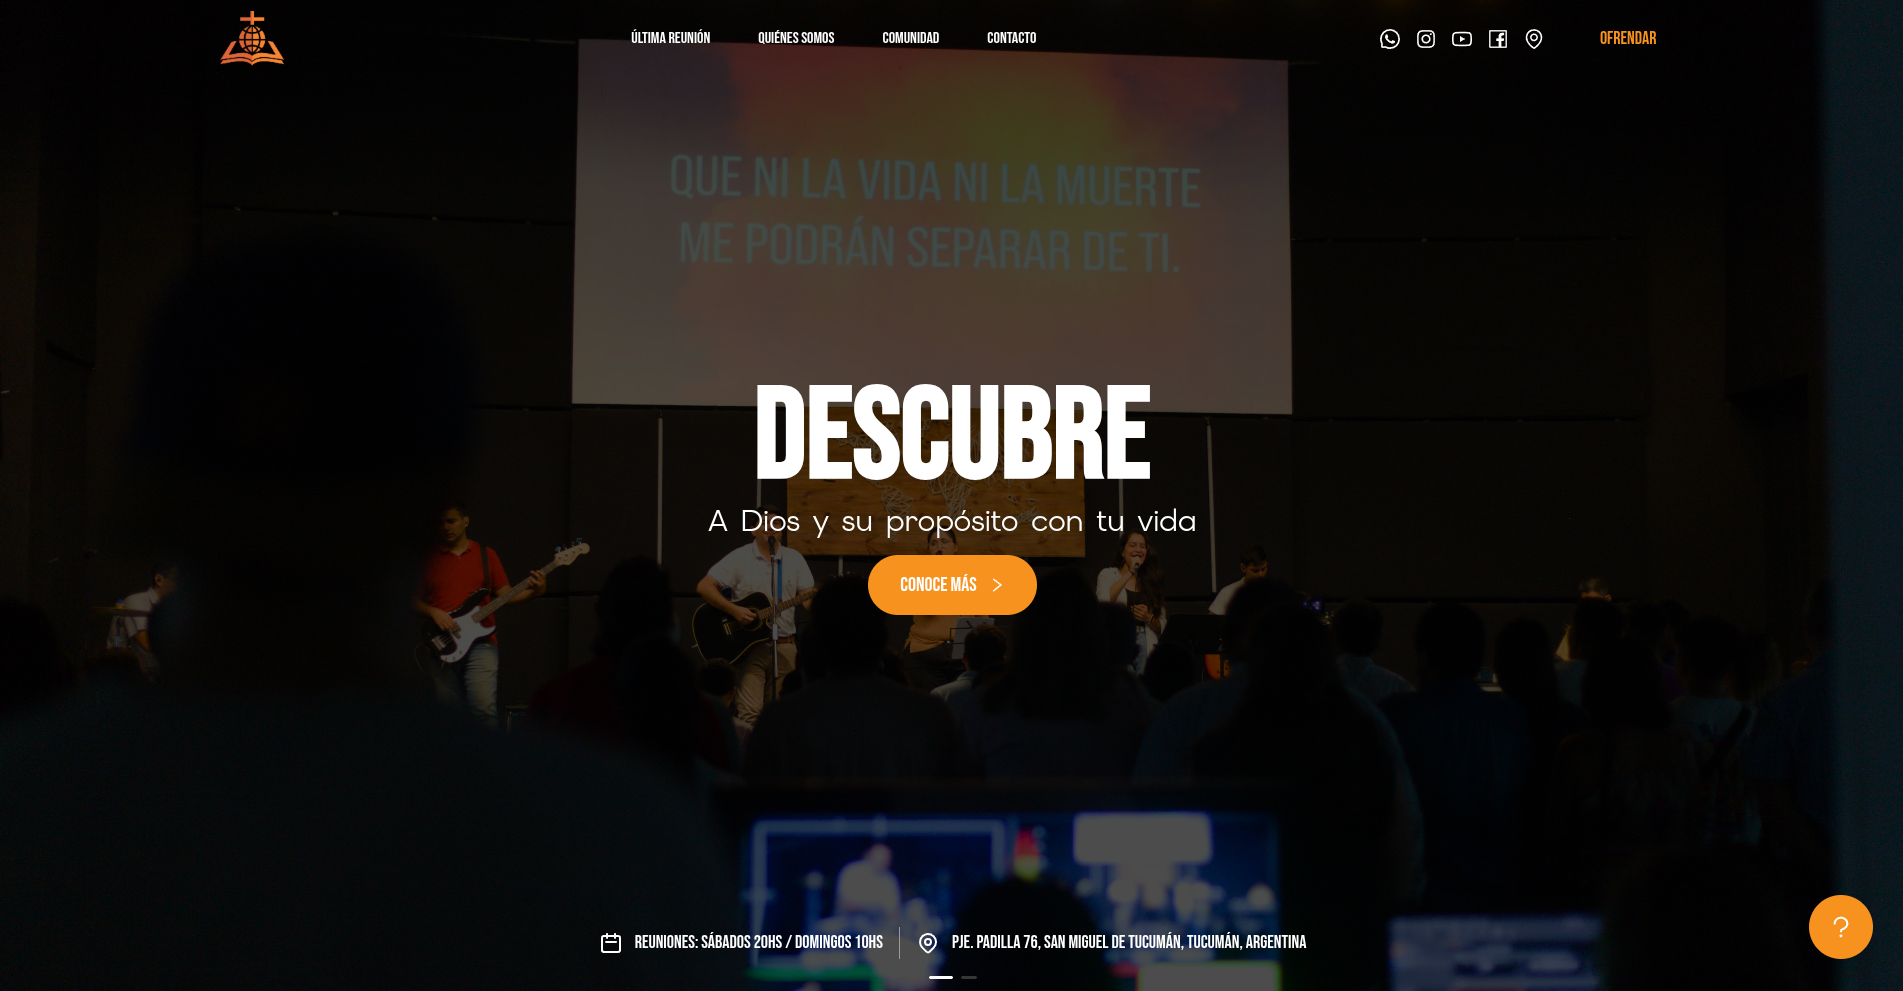
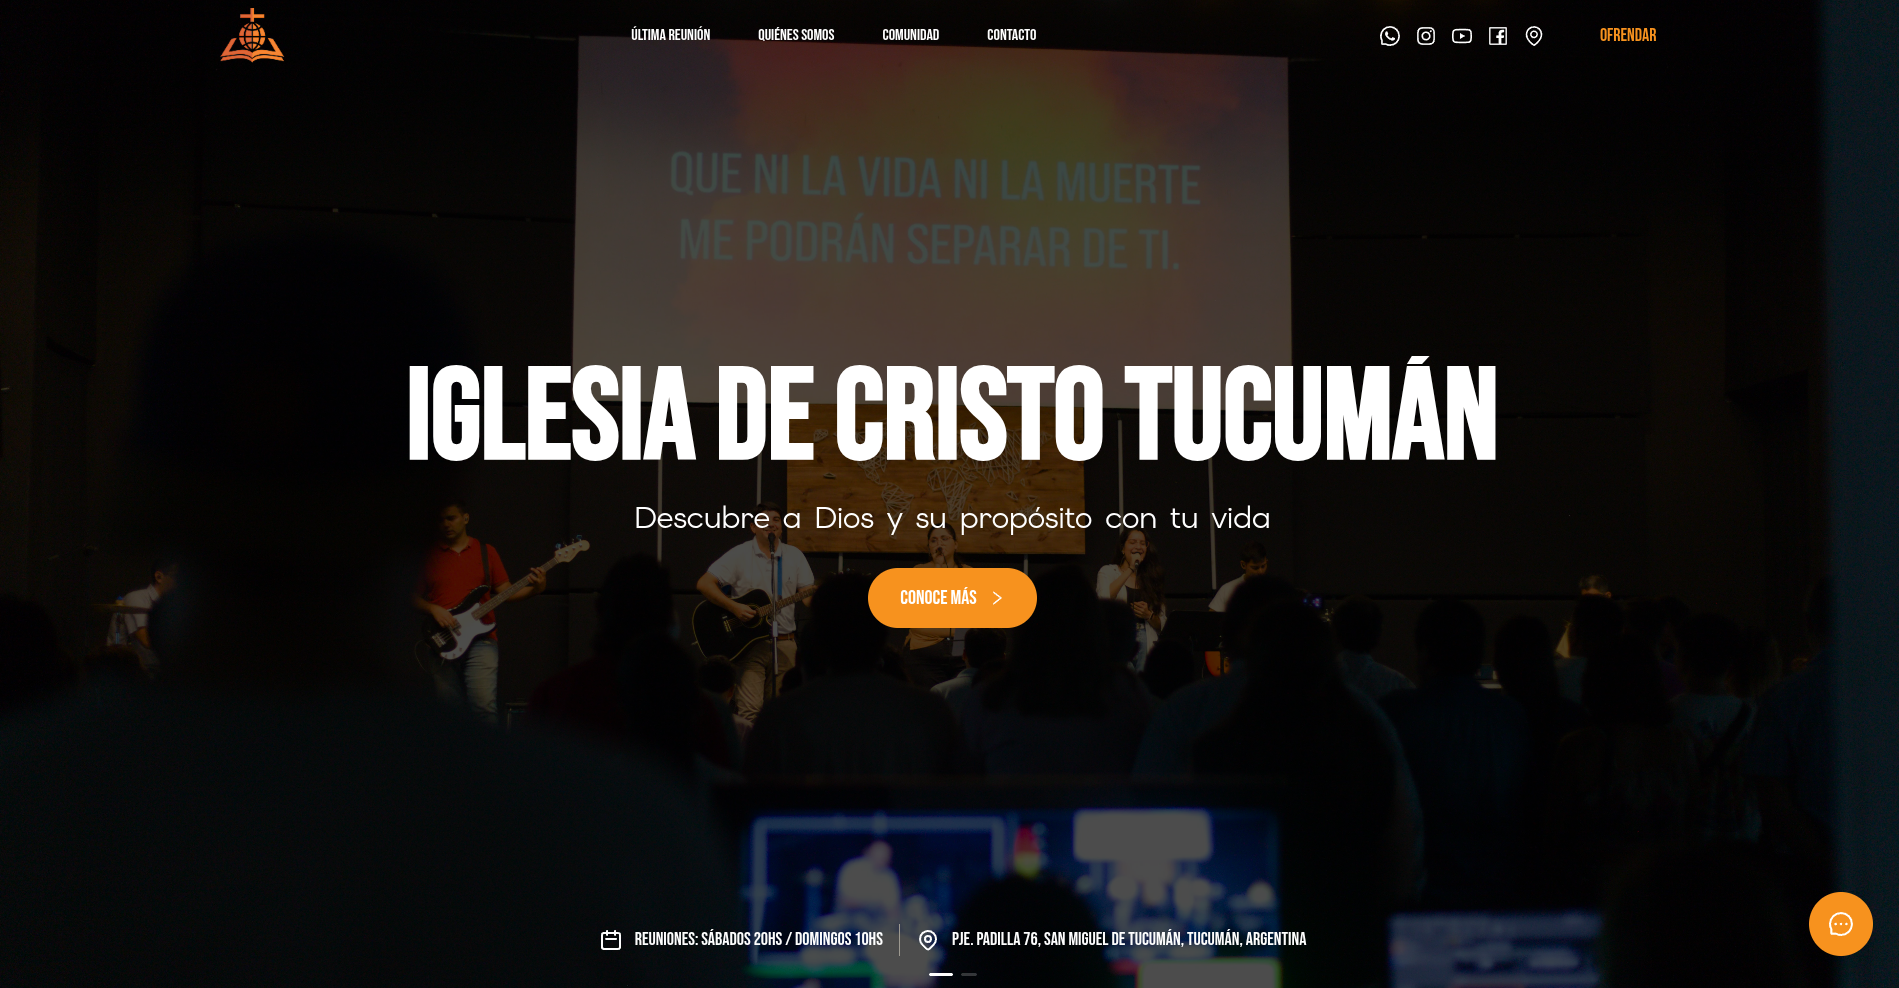
add

diff --git a/src/db/data.js b/src/db/data.js
@@ -117,27 +117,37 @@ const data = {
     {
       "name": "React",
       "icon": "FaReact",
-      "tooltip": "Librería para construir interfaces de usuario interactivas"
+      "tooltip": "Creación de interfaces dinámicas mediante componentes reutilizables"
     },
     {
       "name": "Next.js",
       "icon": "SiNextdotjs",
-      "tooltip": "Framework de React para aplicaciones web de producción"
+      "tooltip": "Aplicaciones de alto rendimiento con renderizado optimizado (SSR/SSG)"
+    },
+    {
+      "name": "Express.js",
+      "icon": "SiExpress",
+      "tooltip": "Desarrollo de APIs robustas y escalables del lado del servidor"
+    },
+    {
+      "name": "Git",
+      "icon": "FaGithub",
+      "tooltip": "Gestión eficiente de versiones y colaboración técnica en equipo"
     },
     {
       "name": "Diseño UX/UI",
       "icon": "MdDesignServices",
-      "tooltip": "Diseño de experiencia de usuario e interfaces intuitivas"
+      "tooltip": "Arquitectura de información y diseño de interfaces centradas en el usuario"
     },
     {
       "name": "Metodologías Ágiles",
       "icon": "MdSpeed",
-      "tooltip": "Enfoques iterativos para desarrollo de software eficiente"
+      "tooltip": "Gestión de proyectos con entregas iterativas y mejora continua"
     },
     {
       "name": "Docencia",
       "icon": "FaChalkboardTeacher",
-      "tooltip": "Experiencia en enseñanza y transferencia de conocimientos"
+      "tooltip": "Facilitación de aprendizaje y comunicación efectiva de conceptos técnicos"
     }
   ],
   "certifications": [

diff --git a/src/components/Skills.jsx b/src/components/Skills.jsx
@@ -1,13 +1,14 @@
 import React, { useMemo } from "react";
-import { Row, Col } from "antd";
+import { Row, Col, Tooltip } from "antd";
 import {
   FaHtml5,
   FaCss3Alt,
   FaJs,
   FaReact,
   FaChalkboardTeacher,
+  FaGithub
 } from "react-icons/fa";
-import { SiNextdotjs } from "react-icons/si";
+import { SiNextdotjs, SiExpress } from "react-icons/si";
 import { MdGroup, MdDesignServices, MdSpeed } from "react-icons/md";
 import data from "../db/data.js";
 import "./Skills.css";
@@ -26,6 +27,8 @@ const Skills = () => {
       MdGroup: <MdGroup />,
       MdSpeed: <MdSpeed />,
       FaChalkboardTeacher: <FaChalkboardTeacher />,
+      SiExpress: <SiExpress />,
+      FaGithub: <FaGithub />,
     }),
     []
   );
@@ -41,10 +44,12 @@ const Skills = () => {
           <Row gutter={[30, 30]} justify="center">
             {skills.map((skill, index) => (
               <Col key={index} xs={12} sm={8} md={6} lg={6} xl={8}>
-                <div className="skill-item">
-                  <div className="skill-icon">{getIcon(skill.icon)}</div>
-                  <span className="skill-name">{skill.name}</span>
-                </div>
+                <Tooltip title={skill.tooltip}>
+                  <div className="skill-item">
+                    <div className="skill-icon">{getIcon(skill.icon)}</div>
+                    <span className="skill-name">{skill.name}</span>
+                  </div>
+                </Tooltip>
               </Col>
             ))}
           </Row>
